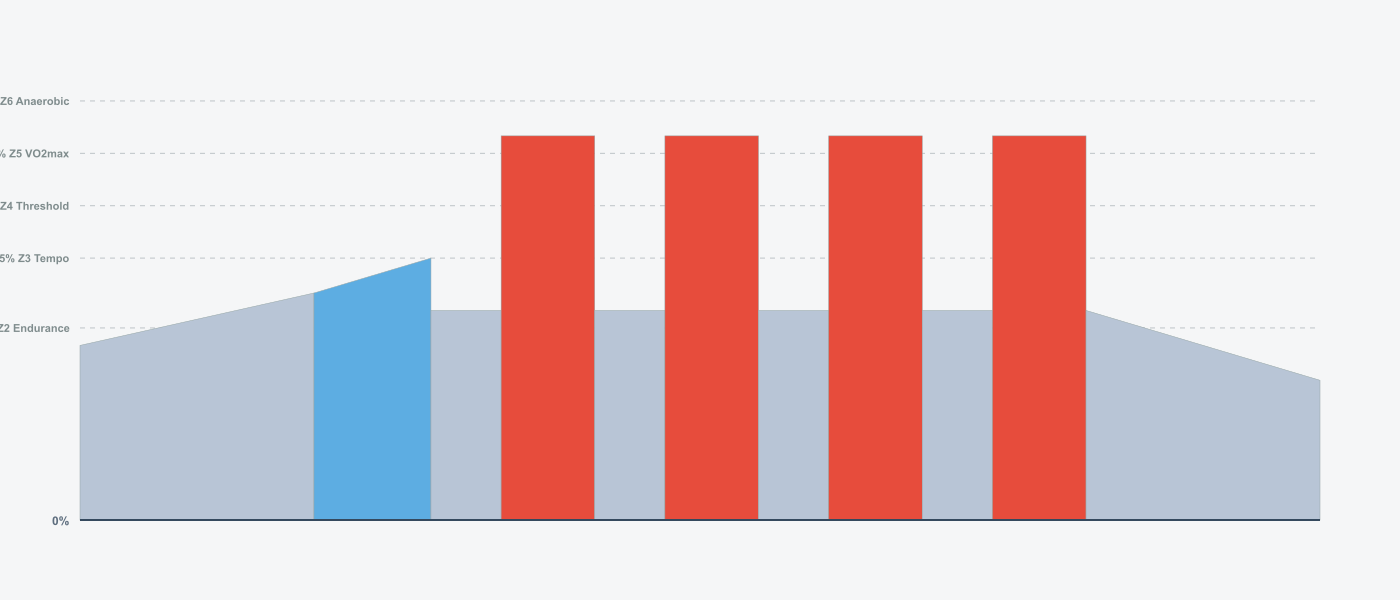
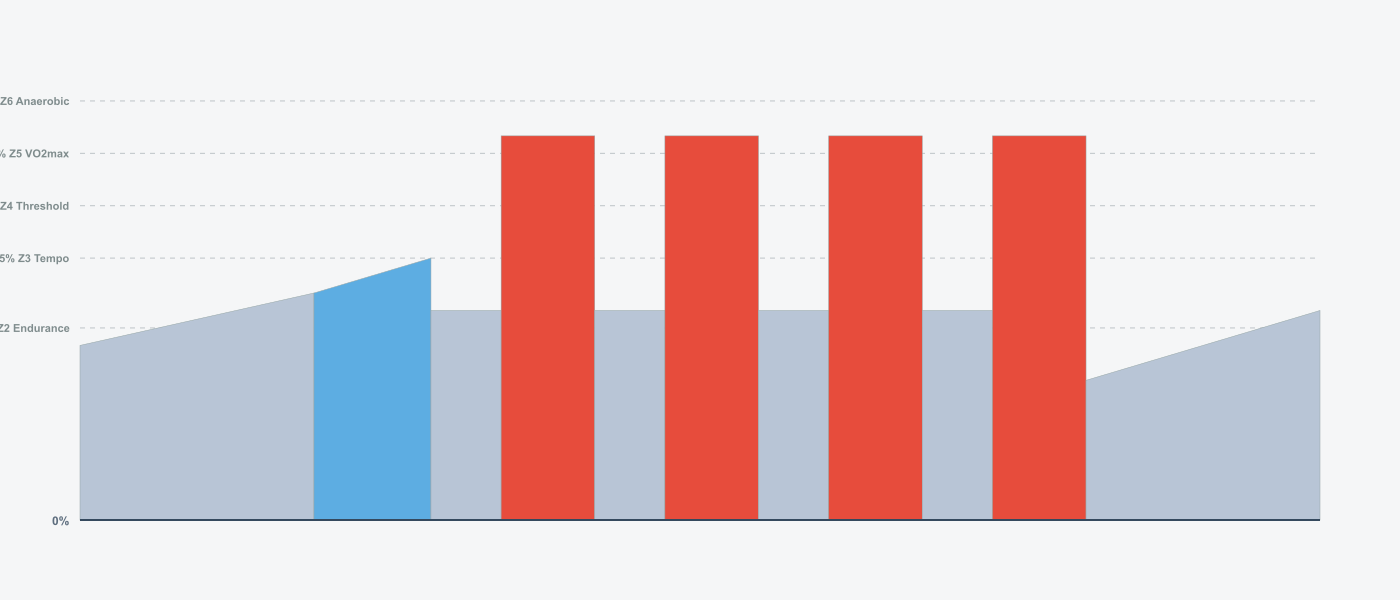
Forgot one !

Changed region(s): [[0.7679, 0.51, 0.9521, 0.63]]

diff --git a/programs/8_weeks_road_builder/weeks/week3.ts b/programs/8_weeks_road_builder/weeks/week3.ts
@@ -1,182 +1,182 @@
-import type { WorkoutDefinition } from '../../../lib/types.js';
+import type { WorkoutDefinition } from "../../../lib/types.js";
 
 export const week3Workouts: Record<string, WorkoutDefinition> = {
-  'W03-D1-Tuesday-VO2max_4x4min': {
-    name: 'W3-Tue: 4x4min Seiler Protocol',
+  "W03-D1-Tuesday-VO2max_4x4min": {
+    name: "W3-Tue: 4x4min Seiler Protocol",
     description: `Classic VO2max intervals: 4 x 4min @ 110% (3min recovery)
 
 Seiler protocol - sustained VO2max efforts.
 
 💡 Pre-load: Carbs 2-3hrs before`,
-    tags: ['Week 3', 'VO2max', 'High Intensity', 'Seiler Protocol'],
+    tags: ["Week 3", "VO2max", "High Intensity", "Seiler Protocol"],
     segments: [
       {
-        type: 'warmup',
+        type: "warmup",
         duration: 600,
         powerLow: 0.5,
         powerHigh: 0.65,
-        messages: [{ time: 10, text: 'Easy warmup' }],
+        messages: [{ time: 10, text: "Easy warmup" }],
       },
       {
-        type: 'warmup',
+        type: "warmup",
         duration: 300,
         powerLow: 0.65,
         powerHigh: 0.75,
-        messages: [{ time: 10, text: 'Building intensity' }],
+        messages: [{ time: 10, text: "Building intensity" }],
       },
-      { type: 'steady', duration: 180, power: 0.6 },
+      { type: "steady", duration: 180, power: 0.6 },
       // Interval 1
       {
-        type: 'steady',
+        type: "steady",
         duration: 240,
         power: 1.1,
         messages: [
-          { time: 10, text: 'Interval 1/4 @ 110% - Settle in' },
-          { time: 120, text: 'Halfway through interval 1' },
+          { time: 10, text: "Interval 1/4 @ 110% - Settle in" },
+          { time: 120, text: "Halfway through interval 1" },
         ],
       },
-      { type: 'steady', duration: 180, power: 0.6 },
+      { type: "steady", duration: 180, power: 0.6 },
       // Interval 2
       {
-        type: 'steady',
+        type: "steady",
         duration: 240,
         power: 1.1,
         messages: [
-          { time: 10, text: 'Interval 2/4 - Stay controlled' },
-          { time: 120, text: 'Halfway' },
+          { time: 10, text: "Interval 2/4 - Stay controlled" },
+          { time: 120, text: "Halfway" },
         ],
       },
-      { type: 'steady', duration: 180, power: 0.6 },
+      { type: "steady", duration: 180, power: 0.6 },
       // Interval 3
       {
-        type: 'steady',
+        type: "steady",
         duration: 240,
         power: 1.1,
         messages: [
-          { time: 10, text: 'Interval 3/4 - Keep pushing' },
-          { time: 120, text: 'Halfway' },
+          { time: 10, text: "Interval 3/4 - Keep pushing" },
+          { time: 120, text: "Halfway" },
         ],
       },
-      { type: 'steady', duration: 180, power: 0.6 },
+      { type: "steady", duration: 180, power: 0.6 },
       // Interval 4
       {
-        type: 'steady',
+        type: "steady",
         duration: 240,
         power: 1.1,
         messages: [
-          { time: 10, text: 'Final interval 4/4!' },
-          { time: 120, text: 'Halfway - finish strong!' },
-          { time: 210, text: '30sec - push through!' },
+          { time: 10, text: "Final interval 4/4!" },
+          { time: 120, text: "Halfway - finish strong!" },
+          { time: 210, text: "30sec - push through!" },
         ],
       },
       {
-        type: 'cooldown',
+        type: "cooldown",
         duration: 600,
-        powerHigh: 0.6,
-        powerLow: 0.4,
-        messages: [{ time: 10, text: 'Excellent work! Cool down' }],
+        powerHigh: 0.4,
+        powerLow: 0.6,
+        messages: [{ time: 10, text: "Excellent work! Cool down" }],
       },
     ],
   },
 
-  'W03-D2-Wednesday-Recovery_Easy': {
-    name: 'W3-Wed: Easy Recovery',
+  "W03-D2-Wednesday-Recovery_Easy": {
+    name: "W3-Wed: Easy Recovery",
     description: `60min easy Z1 spin @ 50-60% FTP
 
 Pure recovery ride.`,
-    tags: ['Week 3', 'Recovery', 'Zone 1'],
+    tags: ["Week 3", "Recovery", "Zone 1"],
     segments: [
-      { type: 'warmup', duration: 300, powerLow: 0.5, powerHigh: 0.55 },
-      { type: 'steady', duration: 2700, power: 0.55 },
-      { type: 'cooldown', duration: 600, powerHigh: 0.5, powerLow: 0.55 },
+      { type: "warmup", duration: 300, powerLow: 0.5, powerHigh: 0.55 },
+      { type: "steady", duration: 2700, power: 0.55 },
+      { type: "cooldown", duration: 600, powerHigh: 0.5, powerLow: 0.55 },
     ],
   },
 
-  'W03-D4-Friday-Threshold_Progressive': {
-    name: 'W3-Fri: Progressive Build 3x10min',
+  "W03-D4-Friday-Threshold_Progressive": {
+    name: "W3-Fri: Progressive Build 3x10min",
     description: `Progressive threshold intervals: 3 x 10min (90% → 98%)
 
 Each interval builds from sweet spot to near-FTP.
 
 💡 Pre-load: Carbs 2-3hrs before`,
-    tags: ['Week 3', 'Threshold', 'Progressive', 'FTP'],
+    tags: ["Week 3", "Threshold", "Progressive", "FTP"],
     segments: [
-      { type: 'warmup', duration: 600, powerLow: 0.5, powerHigh: 0.7 },
-      { type: 'warmup', duration: 300, powerLow: 0.7, powerHigh: 0.85 },
-      { type: 'steady', duration: 180, power: 0.6 },
+      { type: "warmup", duration: 600, powerLow: 0.5, powerHigh: 0.7 },
+      { type: "warmup", duration: 300, powerLow: 0.7, powerHigh: 0.85 },
+      { type: "steady", duration: 180, power: 0.6 },
       // Interval 1
       {
-        type: 'warmup',
+        type: "warmup",
         duration: 600,
         powerLow: 0.9,
         powerHigh: 0.98,
         messages: [
-          { time: 10, text: 'Interval 1/3 - Build from 90% to 98%' },
-          { time: 300, text: 'Halfway - keep building' },
+          { time: 10, text: "Interval 1/3 - Build from 90% to 98%" },
+          { time: 300, text: "Halfway - keep building" },
         ],
       },
-      { type: 'steady', duration: 240, power: 0.6 },
+      { type: "steady", duration: 240, power: 0.6 },
       // Interval 2
       {
-        type: 'warmup',
+        type: "warmup",
         duration: 600,
         powerLow: 0.9,
         powerHigh: 0.98,
         messages: [
-          { time: 10, text: 'Interval 2/3 - Smooth progression' },
-          { time: 300, text: 'Halfway' },
+          { time: 10, text: "Interval 2/3 - Smooth progression" },
+          { time: 300, text: "Halfway" },
         ],
       },
-      { type: 'steady', duration: 240, power: 0.6 },
+      { type: "steady", duration: 240, power: 0.6 },
       // Interval 3
       {
-        type: 'warmup',
+        type: "warmup",
         duration: 600,
         powerLow: 0.9,
         powerHigh: 0.98,
         messages: [
-          { time: 10, text: 'Final interval 3/3!' },
-          { time: 300, text: 'Halfway - finish strong' },
-          { time: 570, text: '30sec - max effort!' },
+          { time: 10, text: "Final interval 3/3!" },
+          { time: 300, text: "Halfway - finish strong" },
+          { time: 570, text: "30sec - max effort!" },
         ],
       },
-      { type: 'cooldown', duration: 600, powerHigh: 0.4, powerLow: 0.6 },
+      { type: "cooldown", duration: 600, powerHigh: 0.4, powerLow: 0.6 },
     ],
   },
 
-  'W03-D5-Saturday-Easy_Z2': {
-    name: 'W3-Sat: Easy Z2 Ride',
+  "W03-D5-Saturday-Easy_Z2": {
+    name: "W3-Sat: Easy Z2 Ride",
     description: `60min easy endurance @ 65-75% FTP`,
-    tags: ['Week 3', 'Endurance', 'Zone 2'],
+    tags: ["Week 3", "Endurance", "Zone 2"],
     segments: [
-      { type: 'warmup', duration: 600, powerLow: 0.6, powerHigh: 0.68 },
-      { type: 'steady', duration: 2400, power: 0.7 },
-      { type: 'cooldown', duration: 600, powerHigh: 0.55, powerLow: 0.68 },
+      { type: "warmup", duration: 600, powerLow: 0.6, powerHigh: 0.68 },
+      { type: "steady", duration: 2400, power: 0.7 },
+      { type: "cooldown", duration: 600, powerHigh: 0.55, powerLow: 0.68 },
     ],
   },
 
-  'W03-D6-Sunday-Long_Endurance': {
-    name: 'W3-Sun: Long Endurance 120min',
+  "W03-D6-Sunday-Long_Endurance": {
+    name: "W3-Sun: Long Endurance 120min",
     description: `120min long endurance @ 65-75% FTP
 
 Building volume. Zone 2 steady state.
 
 💡 Consume 60g carbs/hr`,
-    tags: ['Week 3', 'Endurance', 'Zone 2', 'Long Ride'],
+    tags: ["Week 3", "Endurance", "Zone 2", "Long Ride"],
     segments: [
-      { type: 'warmup', duration: 600, powerLow: 0.6, powerHigh: 0.68 },
+      { type: "warmup", duration: 600, powerLow: 0.6, powerHigh: 0.68 },
       {
-        type: 'steady',
+        type: "steady",
         duration: 6000,
         power: 0.7,
         messages: [
-          { time: 10, text: 'Long steady Z2 - settle in' },
-          { time: 1800, text: '30min in - find your rhythm' },
-          { time: 3600, text: 'Halfway! Looking good' },
-          { time: 5400, text: 'Final 30min - stay consistent' },
+          { time: 10, text: "Long steady Z2 - settle in" },
+          { time: 1800, text: "30min in - find your rhythm" },
+          { time: 3600, text: "Halfway! Looking good" },
+          { time: 5400, text: "Final 30min - stay consistent" },
         ],
       },
-      { type: 'cooldown', duration: 600, powerHigh: 0.55, powerLow: 0.68 },
+      { type: "cooldown", duration: 600, powerHigh: 0.55, powerLow: 0.68 },
     ],
   },
 };
